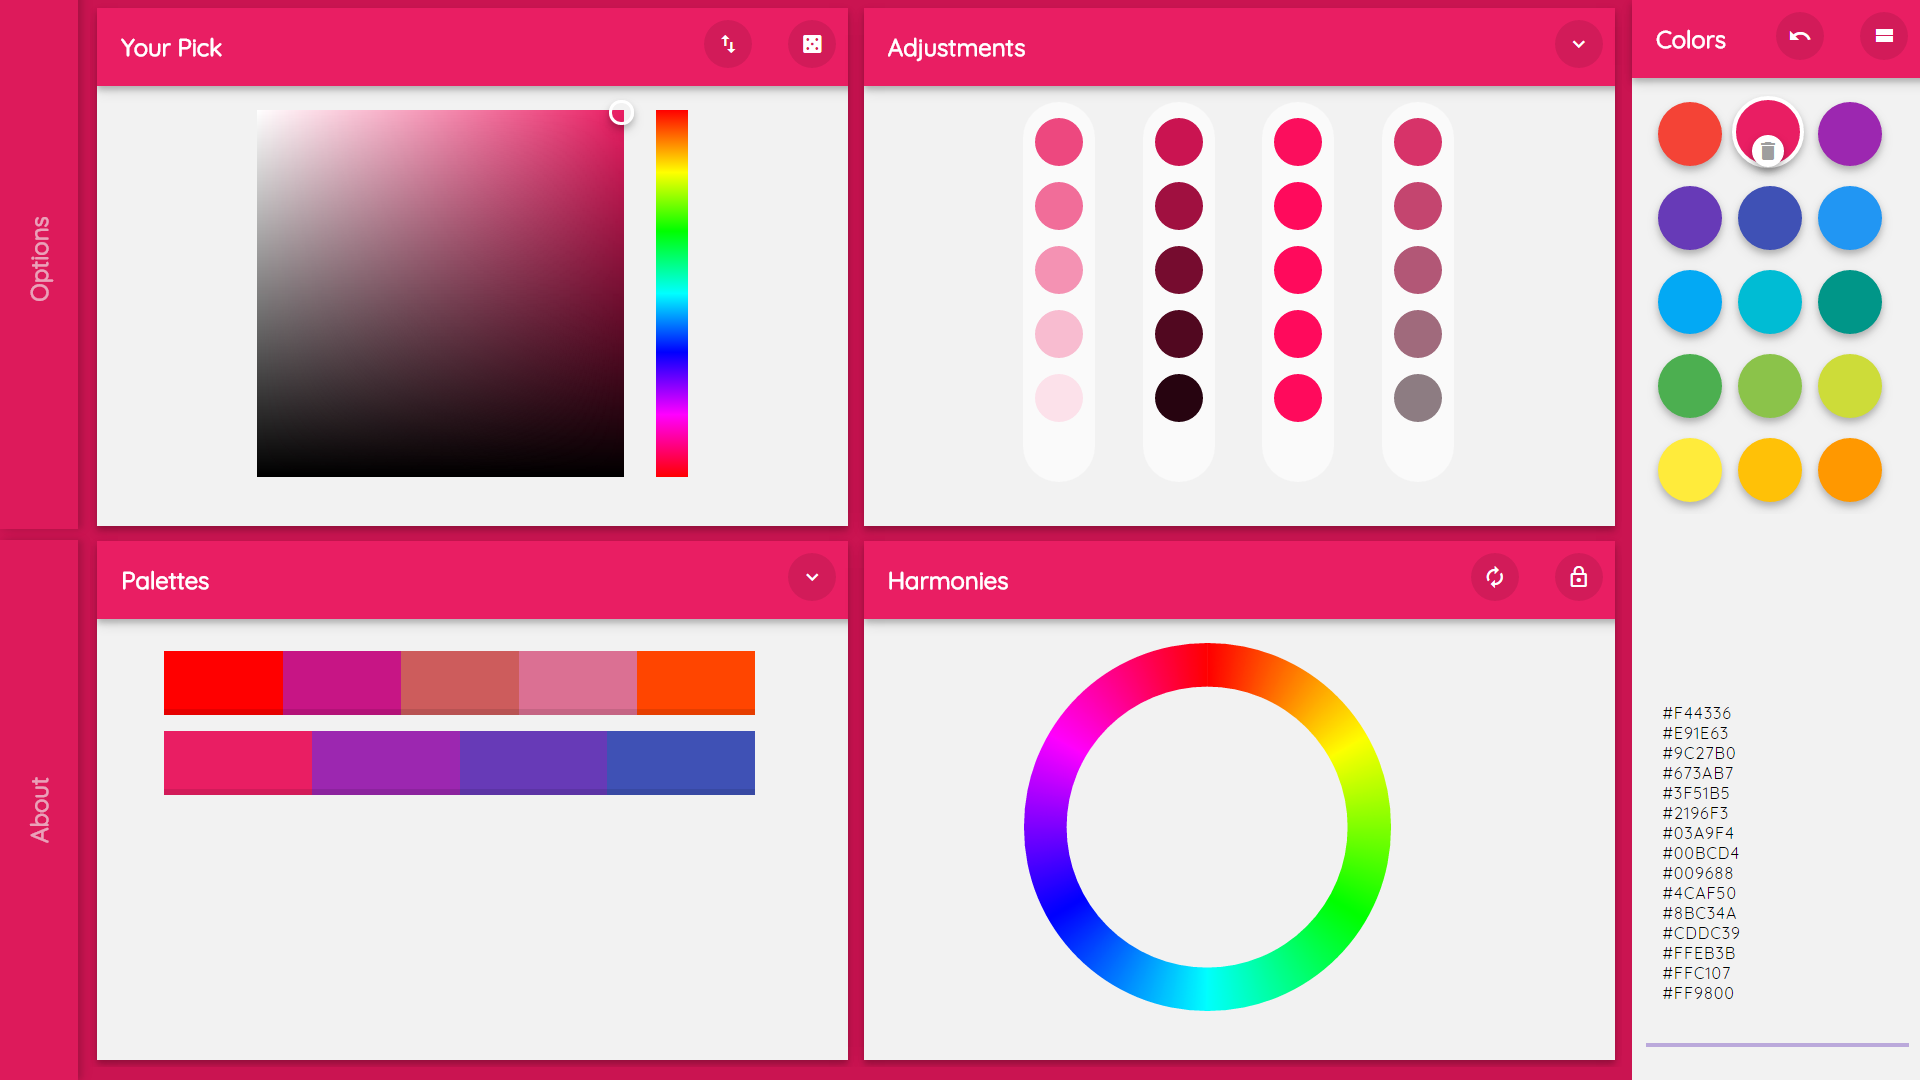
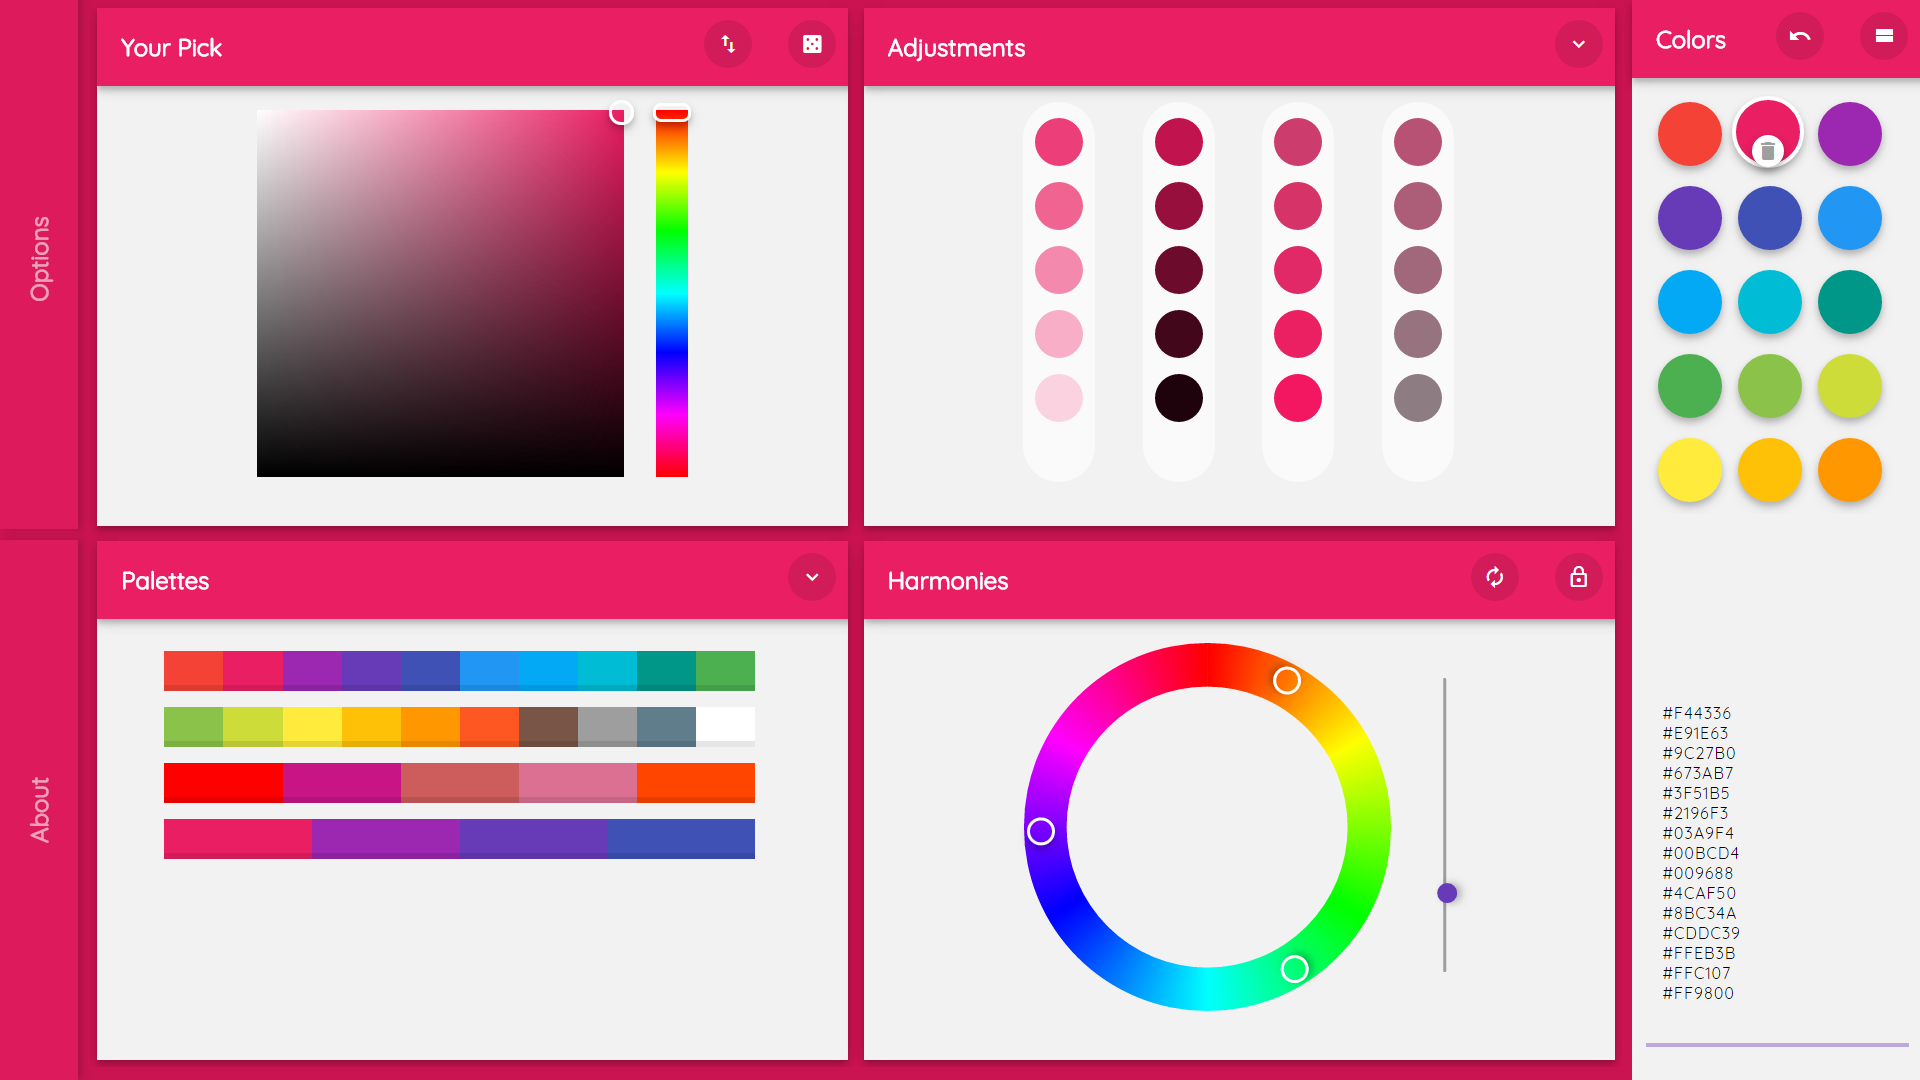
small fixes and front-end update

diff --git a/ColorPot/index.html b/ColorPot/index.html
@@ -77,6 +77,30 @@
       </h1>
       <div id="palWrap">
         <div class="aPal">
+          <div class="palC" style="width: 10%; background-color: #f44336"></div>
+          <div class="palC" style="width: 10%; background-color: #e91e63"></div>
+          <div class="palC" style="width: 10%; background-color: #9c27b0"></div>
+          <div class="palC" style="width: 10%; background-color: #673ab7"></div>
+          <div class="palC" style="width: 10%; background-color: #3f51b5"></div>
+          <div class="palC" style="width: 10%; background-color: #2196f3"></div>
+          <div class="palC" style="width: 10%; background-color: #03a9f4"></div>
+          <div class="palC" style="width: 10%; background-color: #00bcd4"></div>
+          <div class="palC" style="width: 10%; background-color: #009688"></div>
+          <div class="palC" style="width: 10%; background-color: #4caf50"></div>
+        </div>
+        <div class="aPal">
+          <div class="palC" style="width: 10%; background-color: #8bc34a"></div>
+          <div class="palC" style="width: 10%; background-color: #cddc39"></div>
+          <div class="palC" style="width: 10%; background-color: #ffeb3b"></div>
+          <div class="palC" style="width: 10%; background-color: #ffc107"></div>
+          <div class="palC" style="width: 10%; background-color: #ff9800"></div>
+          <div class="palC" style="width: 10%; background-color: #ff5722"></div>
+          <div class="palC" style="width: 10%; background-color: #795548"></div>
+          <div class="palC" style="width: 10%; background-color: #9e9e9e"></div>
+          <div class="palC" style="width: 10%; background-color: #607d8b"></div>
+          <div class="palC" style="width: 10%; background-color: #ffffff"></div>
+        </div>
+        <div class="aPal">
           <div class="palC" style="width: 20%; background-color: red"></div>
           <div class="palC" style="width: 20%; background-color: mediumvioletred"></div>
           <div class="palC" style="width: 20%; background-color: indianred"></div>
@@ -111,7 +135,7 @@
             <div class="harPickCircle"></div>
           </div>
         </div>
-        
+
         <div id="harPick">
           <div id="harRange"><input type="range" min="2" max="6" step="1" value="2" tabindex="0" /></div>
         </div>
@@ -142,10 +166,9 @@
       <div id="colorPotIcon"></div>
       <a href="#">Check for updates</a><br> An elegant and easy-to-use color tool for graphic designers, digital artists,
       web developers, material design enthusiasts, and anyone who wants to play with colors.<br> Have any suggestions?
-      <a
-        onclick="showFeedb()" href="#">Provide feedback here</a>.<br>
-        <a href="https://github.com/therealgary/" target="_blank">therealgary@github</a><br>
-        <span style="font-size: .8em;">
+      <a onclick="showFeedb()" href="#">Provide feedback here</a>.<br>
+      <a href="https://github.com/therealgary/" target="_blank">therealgary@github</a><br>
+      <span style="font-size: .8em;">
         License: <a href="#">GNU GPLv3</a><br style="font-size: 1em;">
         <a href="#">Terms of Use</a><br>
       </span>

diff --git a/ColorPot/css/stylesheet.css b/ColorPot/css/stylesheet.css
@@ -205,7 +205,7 @@ h1 {
     position: relative;
     margin-bottom: 1em;
     width: 100%;
-    height: 4em;
+    height: 2.5em;
 }
 .aPal::after {
     content: '';
@@ -220,7 +220,7 @@ h1 {
 .palC {
     cursor: pointer;
     float: left;
-    height: 4em;
+    height: 100%;
 }
 
 /* HARMONIES */

diff --git a/ColorPot/js/indexVanilla.js b/ColorPot/js/indexVanilla.js
@@ -59,6 +59,8 @@ function getColors(e) {
             userIn.value += userInA[i] + "\n";
         }
         userIn.value = userIn.value.substring(0, userIn.value.length - 1);
+
+        sColorUpdate();
         undoable = false;
         updateUndo();
     }
